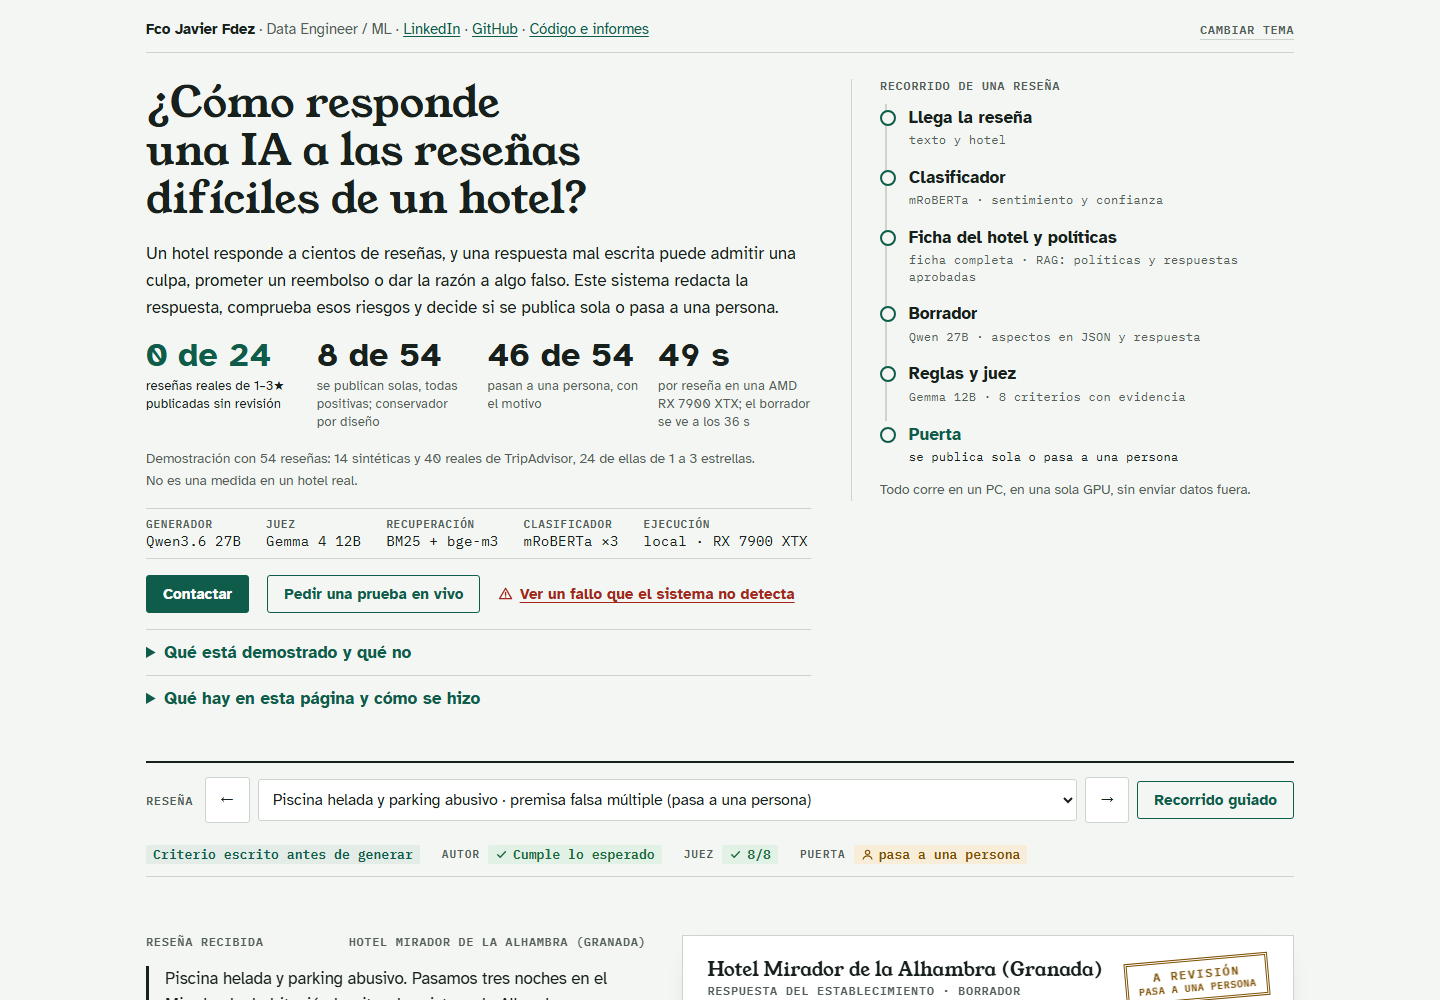
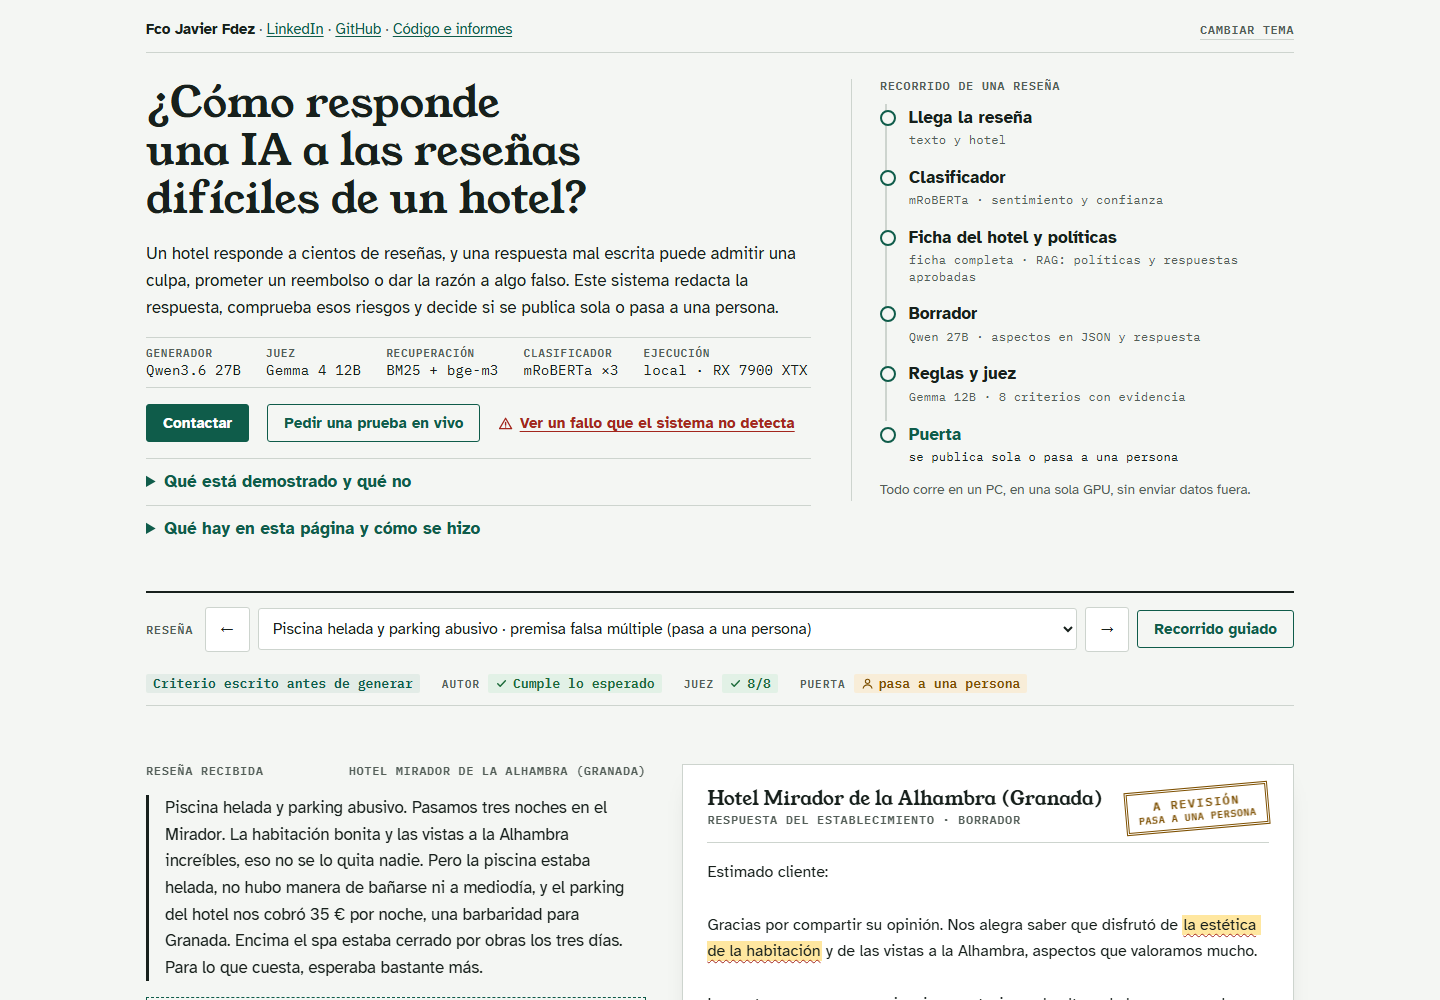
Repetición: sin cifras ni cargo en la cabecera, y diagrama también en móvil
- Fuera las cifras de la cabecera y su aviso (decisión de Javier: sobran en esta demo); el
  build ya no las calcula. La imagen social muestra título, descripción y ficha técnica.
- Fuera «Data Engineer / ML» de la barra superior.
- El recorrido de una reseña se ve también en móvil, debajo de la introducción.

diff --git a/docs/index.html b/docs/index.html
@@ -83,21 +83,16 @@ p { margin: 0; }
 
 /* Cabecera */
 .hero { display: grid; grid-template-columns: minmax(0, 1.5fr) minmax(0, 1fr); gap: 40px; align-items: start; }
-@media (max-width: 760px) { .hero { grid-template-columns: 1fr; gap: 0; } .flow { display: none; } }
+@media (max-width: 760px) {
+  .hero { grid-template-columns: 1fr; gap: 26px; }
+}
 .hero .intro { display: grid; gap: 16px; }
 .lead { max-width: 62ch; font-size: 1.06rem; }
 .spec { display: flex; flex-wrap: wrap; gap: 0 22px; margin: 0; border-top: 1px solid var(--rule); border-bottom: 1px solid var(--rule); padding: 4px 0; }
 .spec div { flex: 1 1 auto; padding: 4px 0; min-width: 0; }
 .spec dt { font: 600 .68rem var(--mono); text-transform: uppercase; letter-spacing: .08em; color: var(--muted); }
 .spec dd { margin: 0; font: .9rem/1.35 var(--mono); color: var(--ink); }
-.figures { display: grid; grid-template-columns: repeat(4, minmax(0, 1fr)); gap: 18px; }
-@media (max-width: 760px) { .figures { grid-template-columns: repeat(2, minmax(0, 1fr)); gap: 14px 18px; } }
-/* Cifras en la fuente de texto: en Young Serif el 0 se confunde con una o */
-.fig b { display: block; font: 700 clamp(1.6rem, 3.8vw, 2.15rem)/1.05 var(--body); font-variant-numeric: tabular-nums; letter-spacing: -.01em; }
-.fig.main b { color: var(--accent); }
-.fig span { display: block; font-size: .84rem; line-height: 1.35; color: var(--muted); margin-top: 4px; }
-.fig.main span { color: var(--ink); }
-.caveat { font-size: .86rem; color: var(--muted); max-width: 70ch; }
+.note { font-size: .86rem; color: var(--muted); margin-top: 14px; }
 .actions { display: flex; flex-wrap: wrap; gap: 10px 18px; align-items: center; }
 .btn { display: inline-flex; gap: 6px; align-items: center; font: 700 .95rem var(--body); border-radius: 3px;
   padding: 9px 16px; cursor: pointer; text-decoration: none; white-space: nowrap; }
@@ -122,6 +117,7 @@ details.fold p { color: var(--muted); margin-bottom: 12px; }
 .flow li span { display: block; font: .78rem/1.35 var(--mono); color: var(--muted); }
 .flow .gate b { color: var(--accent); }
 .flow .gate span { color: var(--ink); }
+@media (max-width: 760px) { .flow { border-left: 0; border-top: 1px solid var(--rule); padding: 16px 0 0; } }
 
 /* Selector y recorrido */
 .desk { margin-top: 40px; border-top: 2px solid var(--ink); padding-top: 14px; }
@@ -226,7 +222,7 @@ footer { margin-top: 34px; color: var(--muted); font-size: .86rem; border-top: 1
 </svg>
 <div class="wrap">
   <div class="topbar">
-    <p class="who"><strong>Fco Javier Fdez</strong> · Data Engineer / ML · <a href="https://www.linkedin.com/in/franciscojavier-fernandezrumi/" target="_blank" rel="noopener">LinkedIn</a> · <a href="https://github.com/JaviRomano">GitHub</a> · <a href="https://github.com/JaviRomano/Spanish-hotel-review-LLM">Código e informes</a></p>
+    <p class="who"><strong>Fco Javier Fdez</strong> · <a href="https://www.linkedin.com/in/franciscojavier-fernandezrumi/" target="_blank" rel="noopener">LinkedIn</a> · <a href="https://github.com/JaviRomano">GitHub</a> · <a href="https://github.com/JaviRomano/Spanish-hotel-review-LLM">Código e informes</a></p>
     <button class="theme" id="theme" type="button">Cambiar tema</button>
   </div>
 
@@ -234,8 +230,6 @@ footer { margin-top: 34px; color: var(--muted); font-size: .86rem; border-top: 1
     <div class="intro">
       <h1>¿Cómo responde una IA a las reseñas difíciles de un hotel?</h1>
       <p class="lead">Un hotel responde a cientos de reseñas, y una respuesta mal escrita puede admitir una culpa, prometer un reembolso o dar la razón a algo falso. Este sistema redacta la respuesta, comprueba esos riesgos y decide si se publica sola o pasa a una persona.</p>
-      <div class="figures" id="figures"></div>
-      <p class="caveat" id="caveat"></p>
       <dl class="spec" id="spec" aria-label="Ficha técnica"></dl>
       <div class="actions">
         <a class="btn primary" href="https://www.linkedin.com/in/franciscojavier-fernandezrumi/" target="_blank" rel="noopener">Contactar</a>
@@ -272,7 +266,7 @@ footer { margin-top: 34px; color: var(--muted); font-size: .86rem; border-top: 1
         <li><b>Reglas y juez</b><span>Gemma 12B · 8 criterios con evidencia</span></li>
         <li class="gate"><b>Puerta</b><span>se publica sola o pasa a una persona</span></li>
       </ol>
-      <p class="caveat" style="margin-top:14px">Todo corre en un PC, en una sola GPU, sin enviar datos fuera.</p>
+      <p class="note">Todo corre en un PC, en una sola GPU, sin enviar datos fuera.</p>
     </aside>
   </header>
 
@@ -1842,19 +1836,6 @@ footer { margin-top: 34px; color: var(--muted); font-size: .86rem; border-top: 1
    "ensena": "Un fallo reconocido: el autor la valora como «no cumple». Por eso nada serio se publica sin revisión."
   }
  ],
- "resumen": {
-  "total": 54,
-  "sinteticos": 14,
-  "publicables": 8,
-  "publicables_positivas": 8,
-  "riesgo_total": 24,
-  "riesgo_publicadas": 0,
-  "segundos": 49,
-  "borrador": 36,
-  "generador": "qwen3.6:27b-q4_K_M",
-  "juez": "gemma4:12b-it-qat",
-  "gpu": "AMD RX 7900 XTX"
- },
  "stack": [
   [
    "Generador",
@@ -1881,7 +1862,7 @@ footer { margin-top: 34px; color: var(--muted); font-size: .86rem; border-top: 1
 <script>
 (() => {
   const DATA = JSON.parse(document.getElementById("data").textContent);
-  const cases = DATA.casos, tour = DATA.recorrido, S = DATA.resumen;
+  const cases = DATA.casos, tour = DATA.recorrido;
   const byId = Object.fromEntries(cases.map(c => [c.id, c]));
   const $ = id => document.getElementById(id);
   const el = (tag, text, cls) => { const e = document.createElement(tag); if (text != null) e.textContent = text; if (cls) e.className = cls; return e; };
@@ -1890,15 +1871,7 @@ footer { margin-top: 34px; color: var(--muted); font-size: .86rem; border-top: 1
   const PUB = "publicable";
   const VERDICT = {cumple: ["ok", "ok", "Cumple lo esperado"], parcial: ["partial", "partial", "Cumple en parte"], no_cumple: ["no", "no", "No cumple lo esperado"]};
 
-  // Cabecera: cifras (calculadas por build_replay.py desde los resultados versionados) y ficha técnica
-  const figures = [
-    [`${S.riesgo_publicadas} de ${S.riesgo_total}`, "reseñas reales de 1–3★ publicadas sin revisión", true],
-    [`${S.publicables} de ${S.total}`, `se publican solas${S.publicables === S.publicables_positivas ? ", todas positivas" : ""}; conservador por diseño`],
-    [`${S.total - S.publicables} de ${S.total}`, "pasan a una persona, con el motivo"],
-    [`${S.segundos} s`, `por reseña en una ${S.gpu}; el borrador se ve a los ${S.borrador} s`],
-  ];
-  for (const [big, small, main] of figures) { const d = el("div", null, "fig" + (main ? " main" : "")); d.append(el("b", big), el("span", small)); $("figures").append(d); }
-  $("caveat").textContent = `Demostración con ${S.total} reseñas: ${S.sinteticos} sintéticas y ${S.total - S.sinteticos} reales de TripAdvisor, ${S.riesgo_total} de ellas de 1 a 3 estrellas. No es una medida en un hotel real.`;
+  // Cabecera: ficha técnica (los modelos salen de sus constantes en el código)
   for (const [k, v] of DATA.stack) { const d = el("div"); d.append(el("dt", k), el("dd", v)); $("spec").append(d); }
   $("livebtn").addEventListener("click", () => {
     const open = $("livepanel").hidden; $("livepanel").hidden = !open; $("livebtn").setAttribute("aria-expanded", String(open));

diff --git a/scripts/replay_template.html b/scripts/replay_template.html
@@ -83,21 +83,16 @@ p { margin: 0; }
 
 /* Cabecera */
 .hero { display: grid; grid-template-columns: minmax(0, 1.5fr) minmax(0, 1fr); gap: 40px; align-items: start; }
-@media (max-width: 760px) { .hero { grid-template-columns: 1fr; gap: 0; } .flow { display: none; } }
+@media (max-width: 760px) {
+  .hero { grid-template-columns: 1fr; gap: 26px; }
+}
 .hero .intro { display: grid; gap: 16px; }
 .lead { max-width: 62ch; font-size: 1.06rem; }
 .spec { display: flex; flex-wrap: wrap; gap: 0 22px; margin: 0; border-top: 1px solid var(--rule); border-bottom: 1px solid var(--rule); padding: 4px 0; }
 .spec div { flex: 1 1 auto; padding: 4px 0; min-width: 0; }
 .spec dt { font: 600 .68rem var(--mono); text-transform: uppercase; letter-spacing: .08em; color: var(--muted); }
 .spec dd { margin: 0; font: .9rem/1.35 var(--mono); color: var(--ink); }
-.figures { display: grid; grid-template-columns: repeat(4, minmax(0, 1fr)); gap: 18px; }
-@media (max-width: 760px) { .figures { grid-template-columns: repeat(2, minmax(0, 1fr)); gap: 14px 18px; } }
-/* Cifras en la fuente de texto: en Young Serif el 0 se confunde con una o */
-.fig b { display: block; font: 700 clamp(1.6rem, 3.8vw, 2.15rem)/1.05 var(--body); font-variant-numeric: tabular-nums; letter-spacing: -.01em; }
-.fig.main b { color: var(--accent); }
-.fig span { display: block; font-size: .84rem; line-height: 1.35; color: var(--muted); margin-top: 4px; }
-.fig.main span { color: var(--ink); }
-.caveat { font-size: .86rem; color: var(--muted); max-width: 70ch; }
+.note { font-size: .86rem; color: var(--muted); margin-top: 14px; }
 .actions { display: flex; flex-wrap: wrap; gap: 10px 18px; align-items: center; }
 .btn { display: inline-flex; gap: 6px; align-items: center; font: 700 .95rem var(--body); border-radius: 3px;
   padding: 9px 16px; cursor: pointer; text-decoration: none; white-space: nowrap; }
@@ -122,6 +117,7 @@ details.fold p { color: var(--muted); margin-bottom: 12px; }
 .flow li span { display: block; font: .78rem/1.35 var(--mono); color: var(--muted); }
 .flow .gate b { color: var(--accent); }
 .flow .gate span { color: var(--ink); }
+@media (max-width: 760px) { .flow { border-left: 0; border-top: 1px solid var(--rule); padding: 16px 0 0; } }
 
 /* Selector y recorrido */
 .desk { margin-top: 40px; border-top: 2px solid var(--ink); padding-top: 14px; }
@@ -226,7 +222,7 @@ footer { margin-top: 34px; color: var(--muted); font-size: .86rem; border-top: 1
 </svg>
 <div class="wrap">
   <div class="topbar">
-    <p class="who"><strong>__AUTHOR__</strong> · __ROLE__ · <a href="__LINKEDIN__" target="_blank" rel="noopener">LinkedIn</a> · <a href="__GITHUB__">GitHub</a> · <a href="__REPO__">Código e informes</a></p>
+    <p class="who"><strong>__AUTHOR__</strong> · <a href="__LINKEDIN__" target="_blank" rel="noopener">LinkedIn</a> · <a href="__GITHUB__">GitHub</a> · <a href="__REPO__">Código e informes</a></p>
     <button class="theme" id="theme" type="button">Cambiar tema</button>
   </div>
 
@@ -234,8 +230,6 @@ footer { margin-top: 34px; color: var(--muted); font-size: .86rem; border-top: 1
     <div class="intro">
       <h1>¿Cómo responde una IA a las reseñas difíciles de un hotel?</h1>
       <p class="lead">Un hotel responde a cientos de reseñas, y una respuesta mal escrita puede admitir una culpa, prometer un reembolso o dar la razón a algo falso. Este sistema redacta la respuesta, comprueba esos riesgos y decide si se publica sola o pasa a una persona.</p>
-      <div class="figures" id="figures"></div>
-      <p class="caveat" id="caveat"></p>
       <dl class="spec" id="spec" aria-label="Ficha técnica"></dl>
       <div class="actions">
         <a class="btn primary" href="__LINKEDIN__" target="_blank" rel="noopener">Contactar</a>
@@ -272,7 +266,7 @@ footer { margin-top: 34px; color: var(--muted); font-size: .86rem; border-top: 1
         <li><b>Reglas y juez</b><span>Gemma 12B · 8 criterios con evidencia</span></li>
         <li class="gate"><b>Puerta</b><span>se publica sola o pasa a una persona</span></li>
       </ol>
-      <p class="caveat" style="margin-top:14px">Todo corre en un PC, en una sola GPU, sin enviar datos fuera.</p>
+      <p class="note">Todo corre en un PC, en una sola GPU, sin enviar datos fuera.</p>
     </aside>
   </header>
 
@@ -343,7 +337,7 @@ footer { margin-top: 34px; color: var(--muted); font-size: .86rem; border-top: 1
 <script>
 (() => {
   const DATA = JSON.parse(document.getElementById("data").textContent);
-  const cases = DATA.casos, tour = DATA.recorrido, S = DATA.resumen;
+  const cases = DATA.casos, tour = DATA.recorrido;
   const byId = Object.fromEntries(cases.map(c => [c.id, c]));
   const $ = id => document.getElementById(id);
   const el = (tag, text, cls) => { const e = document.createElement(tag); if (text != null) e.textContent = text; if (cls) e.className = cls; return e; };
@@ -352,15 +346,7 @@ footer { margin-top: 34px; color: var(--muted); font-size: .86rem; border-top: 1
   const PUB = "publicable";
   const VERDICT = {cumple: ["ok", "ok", "Cumple lo esperado"], parcial: ["partial", "partial", "Cumple en parte"], no_cumple: ["no", "no", "No cumple lo esperado"]};
 
-  // Cabecera: cifras (calculadas por build_replay.py desde los resultados versionados) y ficha técnica
-  const figures = [
-    [`${S.riesgo_publicadas} de ${S.riesgo_total}`, "reseñas reales de 1–3★ publicadas sin revisión", true],
-    [`${S.publicables} de ${S.total}`, `se publican solas${S.publicables === S.publicables_positivas ? ", todas positivas" : ""}; conservador por diseño`],
-    [`${S.total - S.publicables} de ${S.total}`, "pasan a una persona, con el motivo"],
-    [`${S.segundos} s`, `por reseña en una ${S.gpu}; el borrador se ve a los ${S.borrador} s`],
-  ];
-  for (const [big, small, main] of figures) { const d = el("div", null, "fig" + (main ? " main" : "")); d.append(el("b", big), el("span", small)); $("figures").append(d); }
-  $("caveat").textContent = `Demostración con ${S.total} reseñas: ${S.sinteticos} sintéticas y ${S.total - S.sinteticos} reales de TripAdvisor, ${S.riesgo_total} de ellas de 1 a 3 estrellas. No es una medida en un hotel real.`;
+  // Cabecera: ficha técnica (los modelos salen de sus constantes en el código)
   for (const [k, v] of DATA.stack) { const d = el("div"); d.append(el("dt", k), el("dd", v)); $("spec").append(d); }
   $("livebtn").addEventListener("click", () => {
     const open = $("livepanel").hidden; $("livepanel").hidden = !open; $("livebtn").setAttribute("aria-expanded", String(open));

diff --git a/scripts/build_replay.py b/scripts/build_replay.py
@@ -7,7 +7,7 @@ scripts/replay_template.html. Un solo fichero, sin servidor ni modelos: solo lo 
 muestra (nada de pesos ni cachés). Genera también la imagen para redes (docs/og.png).
 
 No genera ni cambia ninguna respuesta del modelo: todo lo que muestra sale de resultados ya
-versionados. Las cifras de la cabecera se calculan aquí.
+versionados.
 
 Uso: uv run python scripts/build_replay.py
 """
@@ -16,14 +16,10 @@ import json
 import re
 from pathlib import Path
 
-import numpy as np
-
 from caso_uso_llm.evals.judge import JUDGE_MODEL
 from caso_uso_llm.evals.rubric import IDS, criterios
 from caso_uso_llm.generate.run import MODEL
-from caso_uso_llm.latency import _rows, split_review
-from caso_uso_llm.paths import RESULTS
-from caso_uso_llm.pipeline import PUBLISH, RUBRIC, THRESHOLD
+from caso_uso_llm.pipeline import RUBRIC, THRESHOLD
 from caso_uso_llm.rag import kb
 from caso_uso_llm.rag.retrieve import EMBED_MODEL
 
@@ -41,7 +37,6 @@ REPO = "https://github.com/JaviRomano/Spanish-hotel-review-LLM"
 LINKEDIN = "https://www.linkedin.com/in/franciscojavier-fernandezrumi/"  # contacto y prueba en vivo
 GITHUB = "https://github.com/JaviRomano"
 AUTHOR = "Fco Javier Fdez"
-ROLE = "Data Engineer / ML"
 GPU = "AMD RX 7900 XTX"  # README, «Requisitos»: el hardware no está en ningún fichero de config
 GROUP = {
     "propio": "Reseñas propias",
@@ -107,38 +102,6 @@ def compact(it: dict, policies: dict) -> dict:
     }
 
 
-def summary(demo: dict) -> dict:
-    """Cifras de la cabecera, calculadas aquí desde los resultados versionados (no a mano): la
-    demostración de 54 reseñas y la última medición de latencia de cada variante.
-
-    Riesgo con una referencia independiente del sistema: las estrellas que puso el cliente. «X de
-    las 46 que van a revisión» sería 0 por construcción; «reseñas reales de 1–3★ publicadas sin
-    revisión» no lo es."""
-    items = list(demo.values())
-    runs = {}
-    for f in sorted(RESULTS.glob("latencia_*.jsonl")):
-        meta, rr = _rows(f)
-        runs[meta.get("variante", "base")] = (meta, rr)
-    meta, rr = runs["base"]
-    _, ra = runs["A"]
-    low = [it for it in items if it["meta"].get("rating") in (1, 2, 3)]
-    return {
-        "total": len(items),
-        "sinteticos": sum(it["meta"]["grupo"] == "sintético" for it in items),
-        "publicables": sum(it["decision"] == PUBLISH for it in items),
-        "publicables_positivas": sum(
-            it["decision"] == PUBLISH and it["sentiment"] == "positivo" for it in items
-        ),
-        "riesgo_total": len(low),
-        "riesgo_publicadas": sum(it["decision"] == PUBLISH for it in low),
-        "segundos": round(float(np.median([split_review(r, meta)["total"] for r in rr]))),
-        "borrador": round(float(np.median([r["visible_s"] for r in ra]))),
-        "generador": MODEL,
-        "juez": JUDGE_MODEL,
-        "gpu": GPU,
-    }
-
-
 def _size(tag: str) -> str:
     """«qwen3.6:27b-q4_K_M» -> «27B»: el tamaño sale de la etiqueta del modelo."""
     m = re.search(r":(\d+)b", tag)
@@ -153,8 +116,8 @@ def stack() -> list[list[str]]:
             ["Clasificador", "mRoBERTa ×3"], ["Ejecución", "local · " + GPU.removeprefix("AMD ")]]  # fmt: skip
 
 
-def og_image(s: dict) -> None:
-    """Imagen para enlaces compartidos (1200×630), con las mismas cifras que la cabecera."""
+def og_image() -> None:
+    """Imagen para enlaces compartidos (1200×630): título, autor y ficha técnica."""
     import matplotlib
 
     matplotlib.use("Agg")
@@ -165,18 +128,16 @@ def og_image(s: dict) -> None:
     paper, ink, muted, rule, accent = "#f4f6f3", "#17201c", "#56615b", "#cdd4ce", "#0f5c4a"
     fig.patch.set_facecolor(paper)
     t = lambda x, y, s_, **kw: fig.text(x, y, s_, color=kw.pop("c", ink), **kw)  # noqa: E731
-    t(0.06, 0.82, "¿Cómo responde una IA a las", fontsize=40, fontweight="bold", family="serif")
-    t(0.06, 0.70, "reseñas difíciles de un hotel?", fontsize=40, fontweight="bold", family="serif")
-    t(0.06, 0.60, f"Clasificador + RAG + generador + juez LLM, 100 % local · {AUTHOR}",
-      fontsize=19, c=muted)  # fmt: skip
-    kpis = [(f"{s['riesgo_publicadas']} de {s['riesgo_total']}", "reseñas reales de 1–3★\npublicadas sin revisión"),
-            (f"{s['publicables']} de {s['total']}", "se publican solas\n(conservador por diseño)"),
-            (f"{s['segundos']} s", f"por reseña en una\n{GPU}")]  # fmt: skip
-    fig.lines.append(plt.Line2D([0.06, 0.94], [0.50, 0.50], transform=fig.transFigure, color=rule))
-    for i, (big, small) in enumerate(kpis):
-        x = 0.06 + i * 0.30
-        t(x, 0.33, big, fontsize=44, fontweight="bold", family="serif", c=accent if i == 0 else ink)
-        t(x, 0.15, small, fontsize=16, c=muted)
+    t(0.06, 0.76, "¿Cómo responde una IA a las", fontsize=44, fontweight="bold", family="serif")
+    t(0.06, 0.62, "reseñas difíciles de un hotel?", fontsize=44, fontweight="bold", family="serif")
+    t(0.06, 0.50, "Redacta la respuesta, comprueba los riesgos y decide si se publica o pasa a "
+      "una persona.", fontsize=16, c=muted)  # fmt: skip
+    fig.lines.append(plt.Line2D([0.06, 0.94], [0.40, 0.40], transform=fig.transFigure, color=rule))
+    for i, (k, v) in enumerate(stack()[:4]):
+        x = 0.06 + i * 0.225
+        t(x, 0.31, k.upper(), fontsize=13, family="monospace", c=muted)
+        t(x, 0.25, v, fontsize=17, family="monospace")
+    t(0.06, 0.09, f"{AUTHOR} · 100 % local", fontsize=18, fontweight="bold", c=accent)
     fig.savefig(OG, facecolor=fig.get_facecolor())
     plt.close(fig)
 
@@ -208,19 +169,17 @@ def main() -> None:
     tour = selection["recorrido"]
     missing = [s["id"] for s in tour if s["id"] not in ids]
     assert not missing, f"el recorrido nombra casos que la página no muestra: {missing}"
-    s = summary(demo)
-    doc = {"umbral": THRESHOLD, "casos": cases, "recorrido": tour, "resumen": s,
-           "stack": stack()}  # fmt: skip
+    doc = {"umbral": THRESHOLD, "casos": cases, "recorrido": tour, "stack": stack()}
     data = json.dumps(doc, ensure_ascii=False, indent=1)
     # Dentro de <script>, «</» cerraría la etiqueta antes de tiempo
     page = TEMPLATE.read_text(encoding="utf-8").replace("__DATA__", data.replace("</", "<\\/"))
     for key, value in {"__REPO__": REPO, "__LINKEDIN__": LINKEDIN, "__GITHUB__": GITHUB,
-                       "__AUTHOR__": AUTHOR, "__ROLE__": ROLE, "__PAGE_URL__": PAGE_URL}.items():  # fmt: skip
+                       "__AUTHOR__": AUTHOR, "__PAGE_URL__": PAGE_URL}.items():  # fmt: skip
         page = page.replace(key, value)
     left = re.findall(r"__[A-Z_]+__", page)
     assert not left, f"marcadores sin sustituir en la plantilla: {sorted(set(left))}"
     OUT.write_text(page, encoding="utf-8", newline="\n")
-    og_image(s)
+    og_image()
     print(f"{len(cases)} casos -> {OUT.relative_to(ROOT)} · {OG.relative_to(ROOT)}")
 
 

diff --git a/scripts/verificar_replay.py b/scripts/verificar_replay.py
@@ -21,9 +21,9 @@ ROOT = Path(__file__).resolve().parents[1]
 PAGE = (ROOT / "docs" / "index.html").as_uri()
 SHOTS = ROOT / "docs" / "screenshots"
 # Texto sobre fondo de color: selector del elemento cuyo color y fondo se comparan
-CONTRAST = [".pill.ok", ".pill.no", ".pill.partial", ".pill.mode", ".pill.neutral", ".fig.main b",
-            ".fig span", ".rating p", ".rating .head", ".alertbox", ".stamp", ".reasons li",
-            ".caveat", ".spec dt", ".spec dd", ".label", ".btn.alert", ".btn.primary", "mark",
+CONTRAST = [".pill.ok", ".pill.no", ".pill.partial", ".pill.mode", ".pill.neutral", ".note",
+            ".rating p", ".rating .head", ".alertbox", ".stamp", ".reasons li",
+            ".spec dt", ".spec dd", ".label", ".btn.alert", ".btn.primary", "mark",
             ".inspect td", ".criterion p", ".flow li span"]  # fmt: skip
 
 
